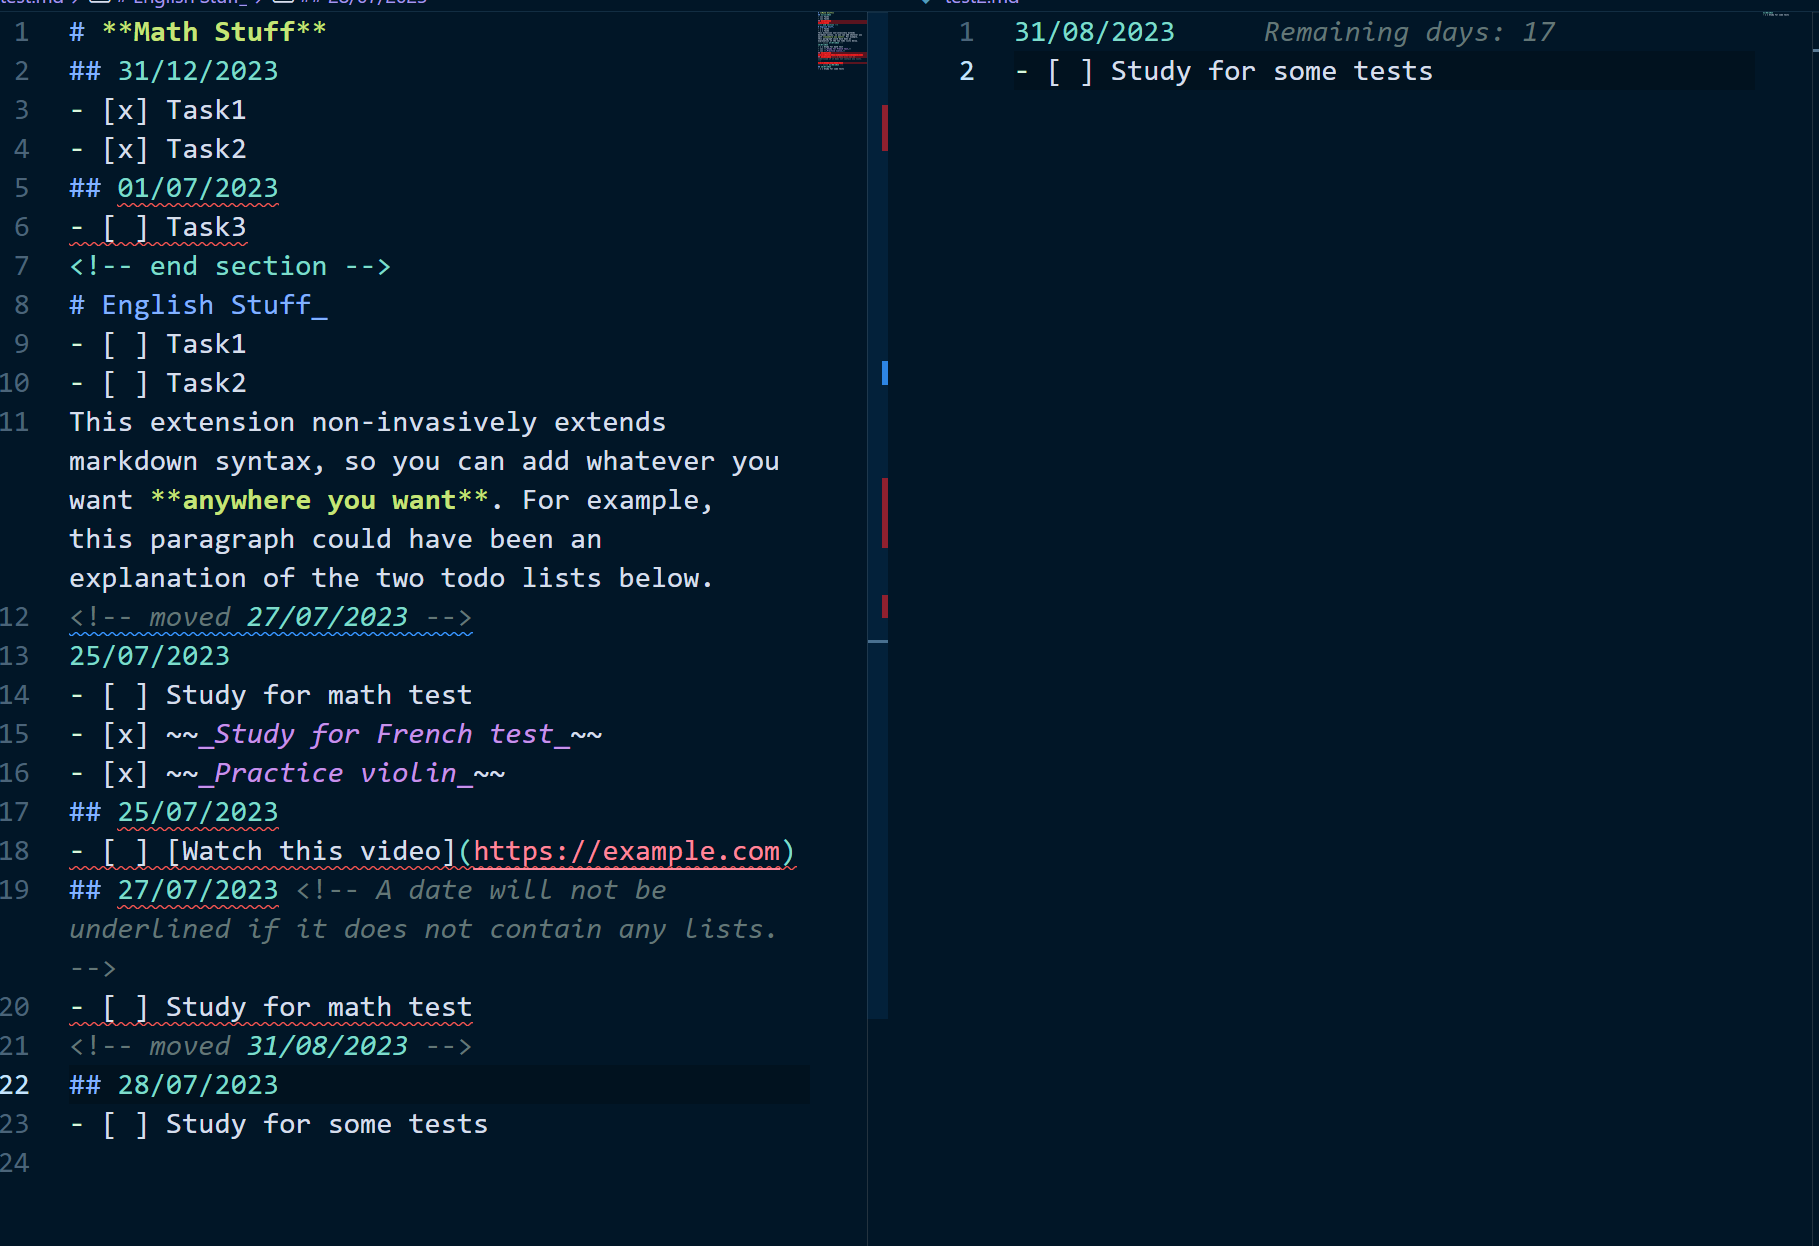
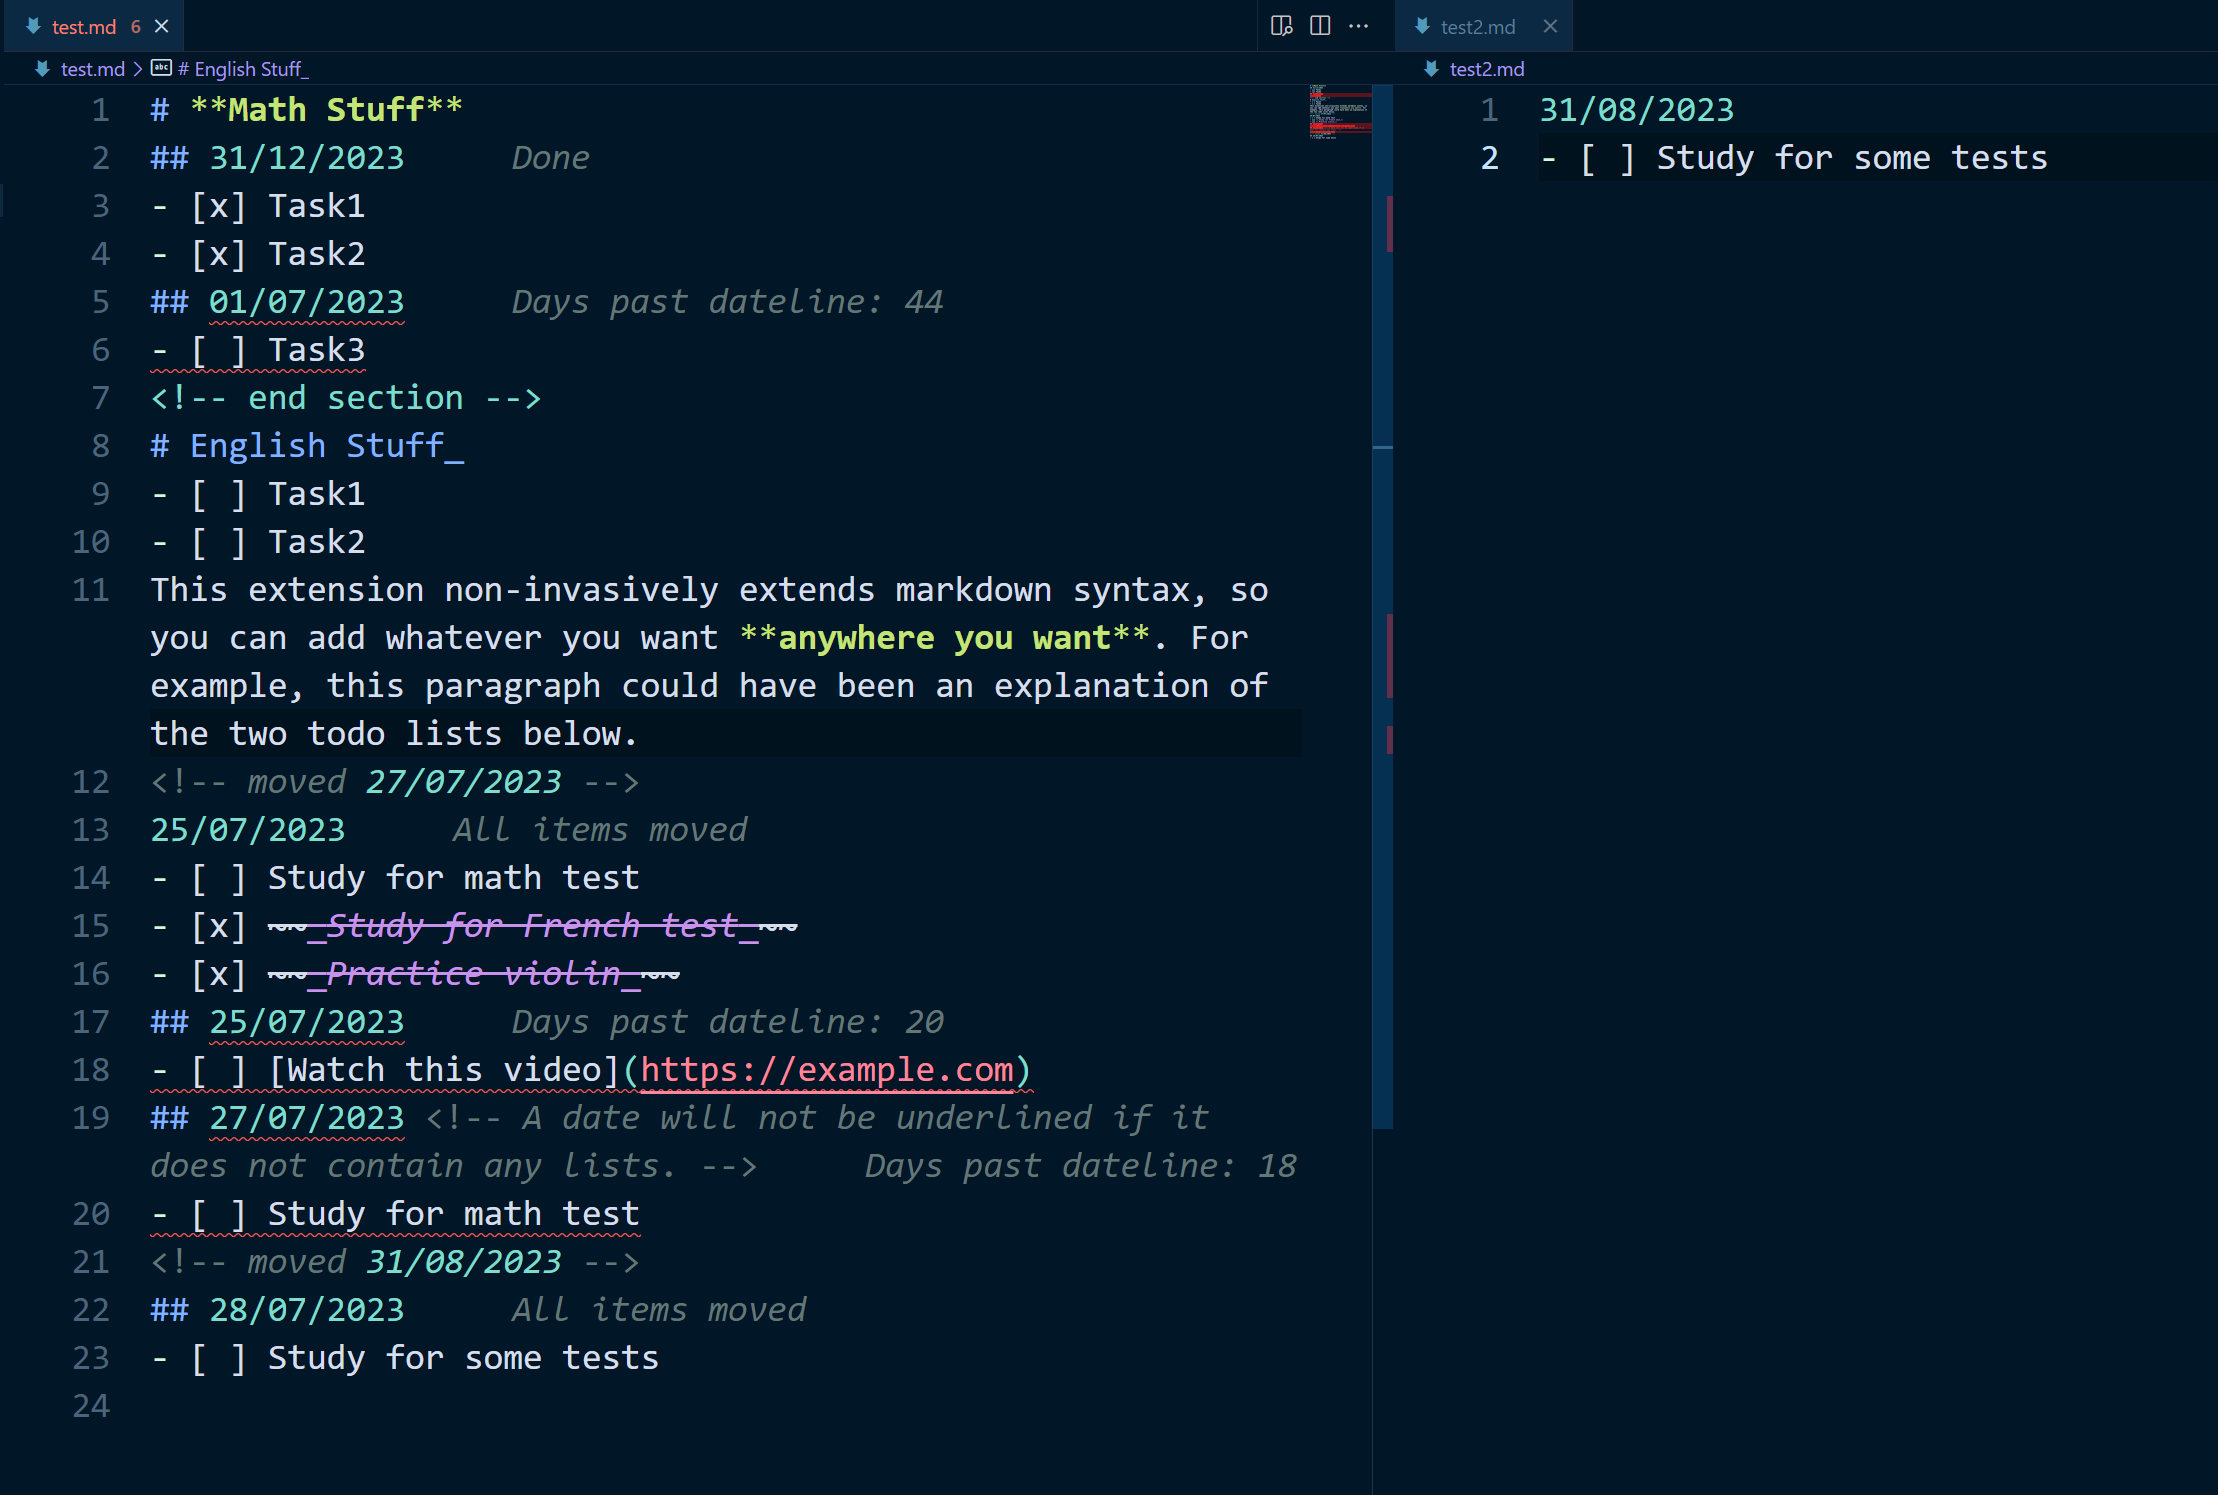
fixed a bug

diff --git a/src/test/diagnostics.test.ts b/src/test/diagnostics.test.ts
@@ -533,6 +533,21 @@ describe("Skipping diagnostics", () => {
       ]);
     });
 
+    test("Moved with date - correct syntax - the date to moved to exists, is not overdue, but only moved unfinished items", () => {
+      const input = [
+        "<!-- moved 09/10/1997 -->",
+        "07/10/1997",
+        "- [x] Take out the trash",
+        "- [ ] Take out the trash 2",
+        "08/10/1997",
+        "- [ ] Take out the trash",
+        "09/10/1997",
+        "- [ ] Take out the trash 2",
+      ].join("\n");
+
+      assertResult(input, []);
+    });
+
     test("Moved with date - invalid syntax", () => {
       const input = [
         "<!-- moved01/06/1997 -->",

diff --git a/src/parsingService/todoSection.ts b/src/parsingService/todoSection.ts
@@ -166,6 +166,8 @@ export class DeadlineSection {
     for (const item of this._items) {
       const foundItem = section._contentSet.has(item.content);
       if (foundItem) continue;
+      // checked items are basically ignored from this validation
+      if (item.isChecked) continue;
       // if the item is not found to be in the next section, then it has not been moved successfully.
       itemsNotDeposited.push(item);
     }
